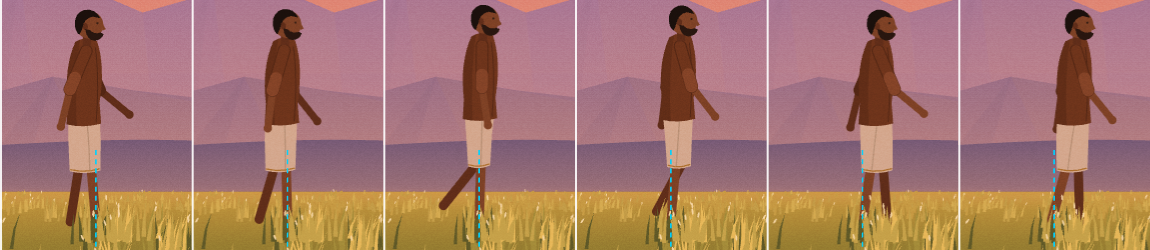
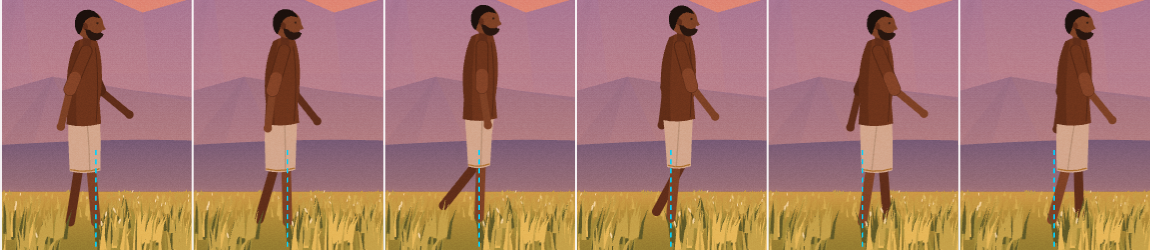
Make the field a continuous canopy
Undergrowth becomes the body of the field (taller, finer tufts, more
staggered rows); blades roughly double and spread more evenly (clumping
0.35); fewer seed heads per blade. Adds npm test regression suite.

Changed region(s): [[0.0, 0.784, 1.0, 1.0]]

diff --git a/src/scene/field.js b/src/scene/field.js
@@ -4,9 +4,9 @@ import { FIELD_TOP, GROUND_Y, SCENE_H, GEN_LEFT, GEN_RIGHT, rng, css, mix } from
 // blades are drawn in front of them, which creates the occlusion.
 // Counts are per 1920 logical px at density 1.
 const BANDS = {
-  far:  { y0: FIELD_TOP + 2, y1: GROUND_Y - 4, per1920: 1500, w: [2.2, 4], h: (y) => 7 + (y - FIELD_TOP) * 0.95, buckets: 3, seedLen: 4 },
-  mid:  { y0: GROUND_Y + 3, y1: 978, per1920: 1250, w: [3.5, 6.5], h: (y) => 58 + (y - GROUND_Y) * 1.05, buckets: 4, seedLen: 7 },
-  fore: { y0: 992, y1: SCENE_H + 40, per1920: 320, w: [6, 11], h: (y) => 70 + (y - 992) * 0.9, buckets: 3, seedLen: 12 },
+  far:  { y0: FIELD_TOP + 2, y1: GROUND_Y - 4, per1920: 2600, w: [2.2, 4], h: (y) => 7 + (y - FIELD_TOP) * 0.95, buckets: 3, seedLen: 4 },
+  mid:  { y0: GROUND_Y + 3, y1: 978, per1920: 2300, w: [3.5, 6.5], h: (y) => 58 + (y - GROUND_Y) * 1.05, buckets: 4, seedLen: 7 },
+  fore: { y0: 992, y1: SCENE_H + 40, per1920: 520, w: [6, 11], h: (y) => 70 + (y - 992) * 0.9, buckets: 3, seedLen: 12 },
 };
 
 // Clump sizes per band: [min, max] blades sharing one root.
@@ -14,7 +14,7 @@ const CLUMP = { far: [3, 7], mid: [5, 13], fore: [4, 9] };
 // Mass layer: a dense, low silhouette of undergrowth painted before the
 // blades so the flat ground never shows through. step = px between tufts,
 // rise = tuft height as a share of a blade at the same depth.
-const MASS = { far: { step: 3, rise: 0.5, rows: 2 }, mid: { step: 4, rise: 0.3, rows: 4 }, fore: { step: 6, rise: 0.22, rows: 3 } };
+const MASS = { far: { step: 2, rise: 0.95, rows: 4 }, mid: { step: 2.5, rise: 0.7, rows: 7 }, fore: { step: 4, rise: 0.6, rows: 5 } };
 
 // clumping 0..1: 0 scatters single blades, 1 grows everything in clumps.
 export function createField(seed, clumping = 0.75) {
@@ -72,10 +72,10 @@ export function createField(seed, clumping = 0.75) {
     // staggered rows, so the undergrowth has no single hard top edge
     const rows = [];
     for (let ri = 0; ri < M.rows; ri++) {
-      const y = B.y0 + (B.y1 - B.y0) * (ri / M.rows) * 0.8;
+      const y = B.y0 + (B.y1 - B.y0) * (ri / M.rows) * 0.9;
       const tufts = [];
       for (let x = GEN_LEFT; x <= GEN_RIGHT; x += M.step) {
-        tufts.push({ x: x + r.range(-0.4, 0.4) * M.step, k: r.range(0.35, 1), phase: r() * Math.PI * 2 });
+        tufts.push({ x: x + r.range(-0.4, 0.4) * M.step, k: r.range(0.55, 1), phase: r() * Math.PI * 2 });
       }
       rows.push({ y, tufts });
     }

diff --git a/src/config.js b/src/config.js
@@ -116,8 +116,8 @@ export function createDefaultConfig() {
     clouds: { parallax: 1 },
     grass: {
       density: 1, heightMul: 1, heightVar: 0.45, bladeWidth: 1,
-      swayAmp: 1, swaySpeed: 1, windDir: 1, occlusion: 1, seedFreq: 0.08, seed: 7,
-      clumping: 0.6, mass: 0.8,
+      swayAmp: 1, swaySpeed: 1, windDir: 1, occlusion: 1, seedFreq: 0.05, seed: 7,
+      clumping: 0.35, mass: 1,
     },
     character: {
       visible: true, x: 0.18, scale: 1, walkSpeed: 38, cadence: 0.62,
